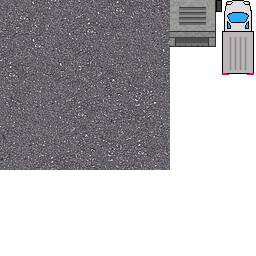
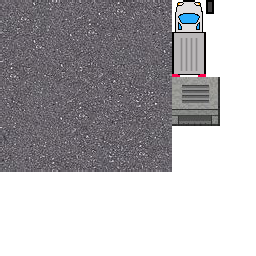
Made tiny health bars over the enemies

diff --git a/project/Car/CarGame.cpp b/project/Car/CarGame.cpp
@@ -32,9 +32,6 @@ CarGame::CarGame()
     ImGuiIO &io = ImGui::GetIO();
     io.Fonts->AddFontFromFileTTF("assets/Roboto-Medium.ttf", 36.0f);
 
-    // set imgui font size
-    io.FontGlobalScale = 1.0f;
-
     ImGuiStyle &style = ImGui::GetStyle();
     style.Alpha = 1;
     style.Colors[ImGuiCol_WindowBg] = ImVec4(0, 0, 0, 0);
@@ -197,6 +194,20 @@ void CarGame::render()
     for (auto &go : sceneObjects)
     {
         go->renderSprite(spriteBatchBuilder);
+        if (camera->isInView(go->position))
+        {
+            auto killable = go->getComponent<KillableComponent>();
+            if (killable != nullptr)
+            {
+                auto pos = camera->getScreenPosition(go->position);
+                ImGui::SetNextWindowPos(ImVec2(pos.x - 50, pos.y - 40), ImGuiCond_Always);
+                ImGui::SetNextWindowSize(ImVec2(100, 10), ImGuiCond_Always);
+                ImGui::Begin("x", nullptr, ImGuiWindowFlags_NoTitleBar | ImGuiWindowFlags_NoResize);
+                ImGui::SetWindowFontScale(0.05);
+                ImGui::ProgressBar(killable->health / killable->maxHealth, ImVec2(-1, 0));
+                ImGui::End();
+            }
+        }
     }
 
     if (gameState == GameState::Ready)
@@ -222,11 +233,11 @@ void CarGame::render()
         debugDraw.clear();
     }
 
-    ImGui::SetNextWindowPos(ImVec2(0, .0f), ImGuiSetCond_Always);
-    ImGui::SetNextWindowSize(ImVec2(600, 60), ImGuiSetCond_Always);
+    ImGui::SetNextWindowPos(ImVec2(0, .0f), ImGuiCond_Always);
+    ImGui::SetNextWindowSize(ImVec2(600, 60), ImGuiCond_Always);
     ImGui::Begin("", nullptr, ImGuiWindowFlags_NoTitleBar | ImGuiWindowFlags_NoResize);
     auto car = carObj->getComponent<Car>();
-    ImGui::ProgressBar(car->health / car->maxHealth, ImVec2(-1, 0), std::to_string(car->health).data());
+    ImGui::ProgressBar(car->health / car->maxHealth, ImVec2(-1, 0), std::to_string((int)ceil(car->health)).data());
     ImGui::End();
 }
 

diff --git a/project/Car/SideScrollingCamera.cpp b/project/Car/SideScrollingCamera.cpp
@@ -3,7 +3,10 @@
 //
 
 #include "SideScrollingCamera.hpp"
+#include "PhysicsComponent.hpp"
 #include "CarGame.hpp"
+#include "glm/gtc/matrix_transform.hpp"
+#include <iostream>
 
 using namespace glm;
 
@@ -25,6 +28,14 @@ void SideScrollingCamera::update(float deltaTime)
     position.x += offset.x;
     position.y += offset.y;
 
+    // auto phys = followObject->getComponent<PhysicsComponent>();
+    // if (phys != nullptr)
+    // {
+    //     auto lv = phys->getLinearVelocity();
+    //     auto len = lv.x * lv.x + lv.y * lv.y;
+    //     camera.setOrthographicProjection(CarGame::windowSize.y * ((len * 0.00001) + 1), -1, 1);
+    // }
+
     gameObject->setPosition(position);
     vec3 eye(position, 0);
     vec3 at(position, -1);
@@ -36,4 +47,24 @@ void SideScrollingCamera::setFollowObject(std::shared_ptr<GameObject> followObje
 {
     this->followObject = followObject;
     this->offset = offset;
+}
+
+ImVec2 SideScrollingCamera::getScreenPosition(glm::vec2 position)
+{
+    auto x = (glm::vec2)sre::Renderer::instance->getWindowSize();
+    x = (glm::vec2(camera.getPosition()) - position + glm::vec2(-x.x, x.y)) * 0.5f;
+    return ImVec2(-x.x, x.y);
+}
+
+bool SideScrollingCamera::isInView(glm::vec2 position)
+{
+    auto ps1 = camera.screenPointToRay({0, 0});
+    if (position.x < ps1[0].x || position.y < ps1[0].y)
+        return false;
+    auto ps2 = camera.screenPointToRay((glm::vec2)sre::Renderer::instance->getWindowSize());
+    if (position.x > ps2[0].x || position.y > ps2[0].y)
+        return false;
+    // std::array<glm::vec2, 2> pos({glm::vec2(ps1[0].x, ps1[0].y), glm::vec2(ps2[0].x, ps2[0].y)});
+    // std::cout << pos[0].x << " " << pos[0].y << ", " << pos[1].x << " " << pos[1].y << "\n";
+    return true;
 }

diff --git a/project/Car/SideScrollingCamera.hpp b/project/Car/SideScrollingCamera.hpp
@@ -4,7 +4,8 @@
 #include "glm/glm.hpp"
 #include "Component.hpp"
 
-class SideScrollingCamera : public Component {
+class SideScrollingCamera : public Component
+{
 public:
     explicit SideScrollingCamera(GameObject *gameObject);
 
@@ -12,10 +13,14 @@ public:
 
     void setFollowObject(std::shared_ptr<GameObject> followObject, glm::vec2 offset);
 
-    sre::Camera& getCamera();
+    sre::Camera &getCamera();
+
+    bool isInView(glm::vec2 position);
+
+    ImVec2 getScreenPosition(glm::vec2 position);
+
 private:
     sre::Camera camera;
     std::shared_ptr<GameObject> followObject;
     glm::vec2 offset;
 };
-

diff --git a/project/Car/KillableComponent.hpp b/project/Car/KillableComponent.hpp
@@ -17,4 +17,5 @@ private:
     float maxHealth = 200;
     float health = maxHealth;
     float damageSpeedThreshold = 100;
+    friend class CarGame;
 };
